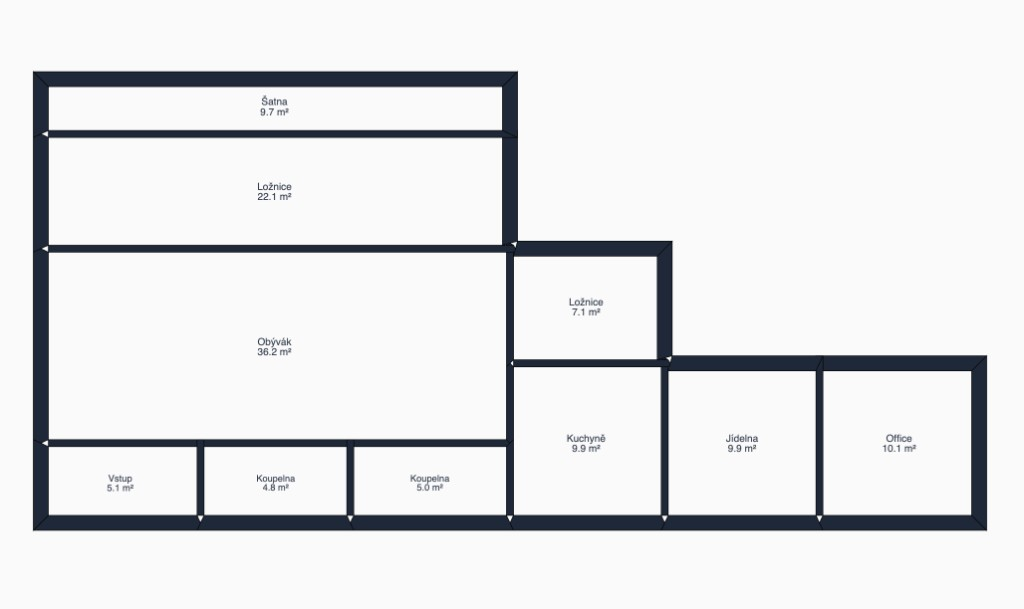
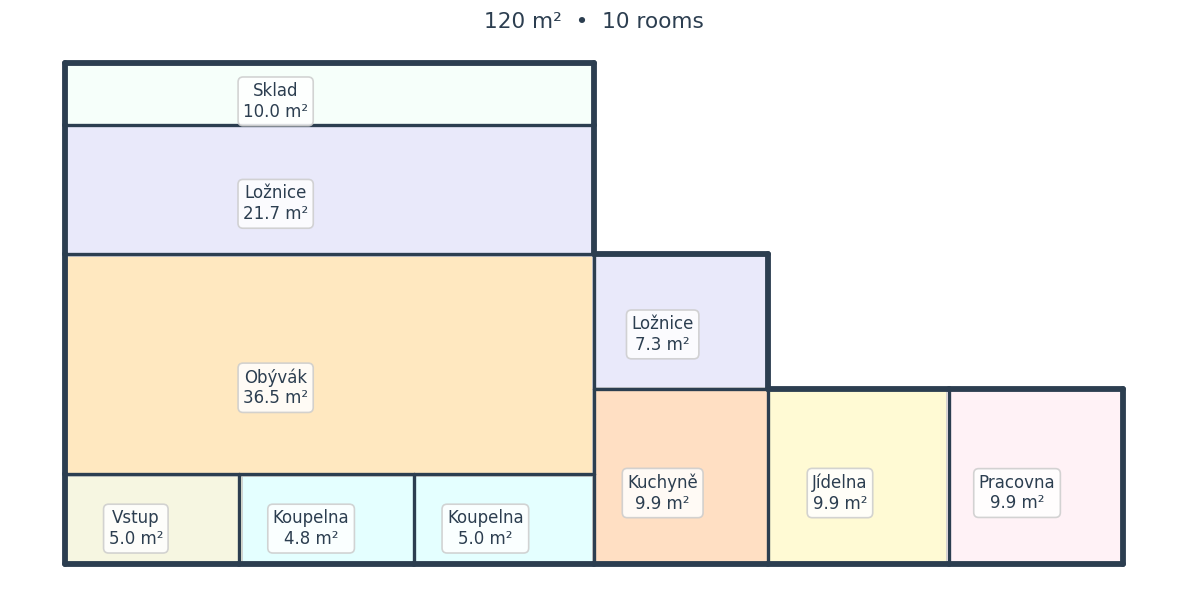
Gallery: replace browser-chrome shot with clean 120/180 renders; clean preview title

diff --git a/preview_synthetic.py b/preview_synthetic.py
@@ -60,12 +60,10 @@ def preview(path: str, save: str = None) -> None:
                 bbox=dict(facecolor="white", alpha=0.85, edgecolor="#cccccc",
                           boxstyle="round,pad=0.3"), zorder=10)
 
-    meta = plan.get("metadata", {})
-    target = meta.get("target_area_m2", "?")
-    style = meta.get("style", "?")
     total = sum(r.get("plocha_m2", 0) for r in rooms)
-    ax.set_title(f"{path}  •  target={target}m²  actual={total:.1f}m²  •  {style}",
-                 fontsize=10, color="#555")
+    n_rooms = len([r for r in rooms if r.get("polygon")])
+    ax.set_title(f"{total:.0f} m²  •  {n_rooms} rooms",
+                 fontsize=13, color="#2c3e50")
     ax.set_aspect("equal")
     ax.autoscale_view()
     ax.margins(0.05)

diff --git a/README.md b/README.md
@@ -14,9 +14,9 @@ through an interactive **Gradio UI** with floor-plan visualization.
 Generated live through the Gradio UI and cleaned by the post-processor —
 watertight, exactly area-matched, orthogonal walls, Czech room labels.
 
-| 60 m² | 120 m² | 125 m² |
+| 60 m² | 120 m² | 180 m² |
 |:---:|:---:|:---:|
-| ![60 m² floor plan](docs/images/plan_60m2.png) | ![120 m² floor plan](docs/images/plan_120m2.png) | ![125 m² floor plan](docs/images/plan_125m2.png) |
+| ![60 m² floor plan](docs/images/plan_60m2.png) | ![120 m² floor plan](docs/images/plan_120m2.png) | ![180 m² floor plan](docs/images/plan_180m2.png) |
 
 ---
 
